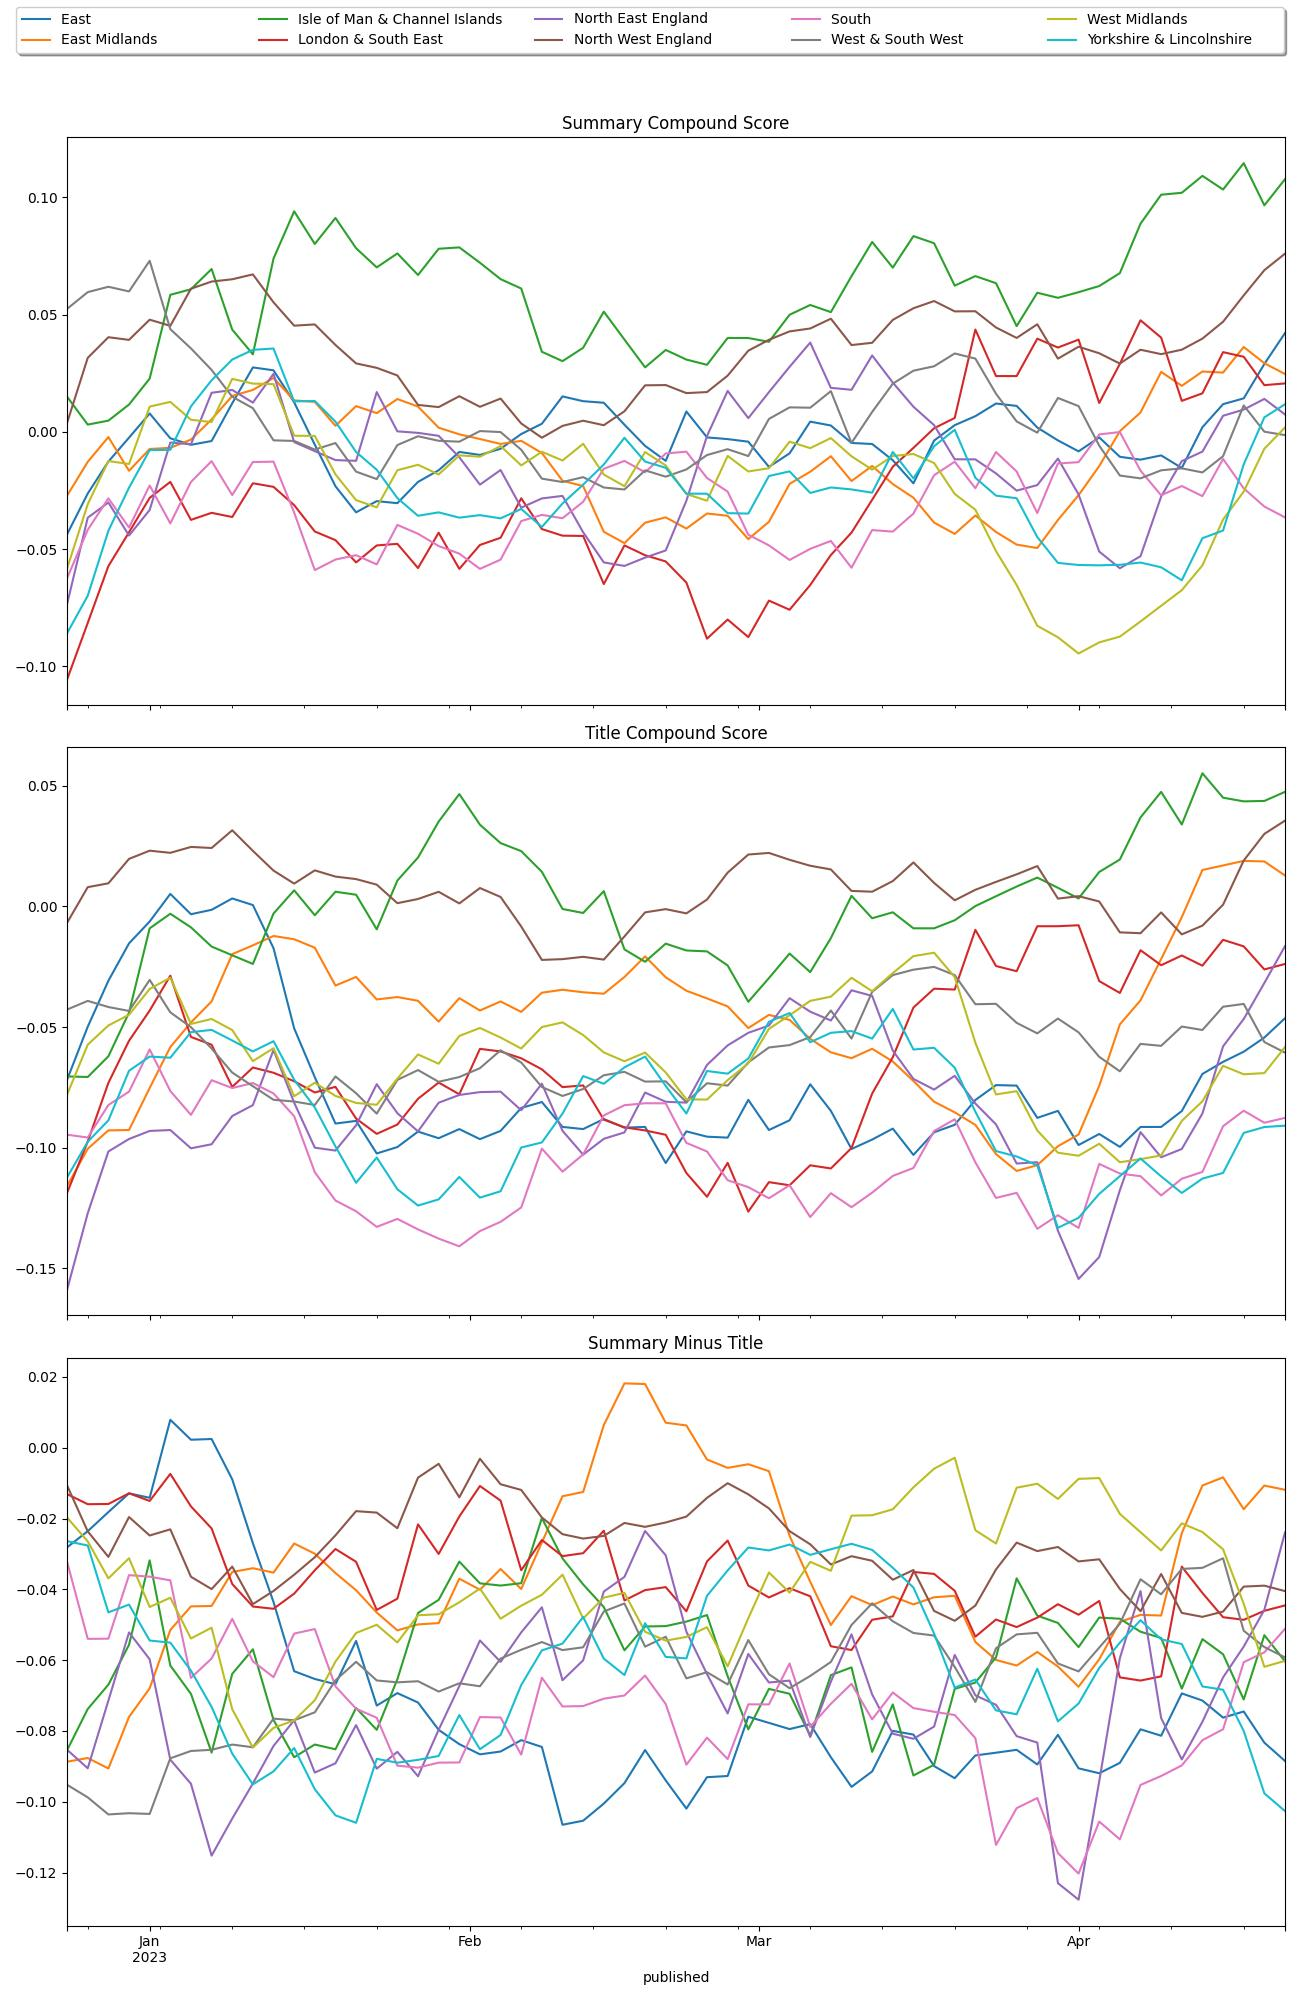
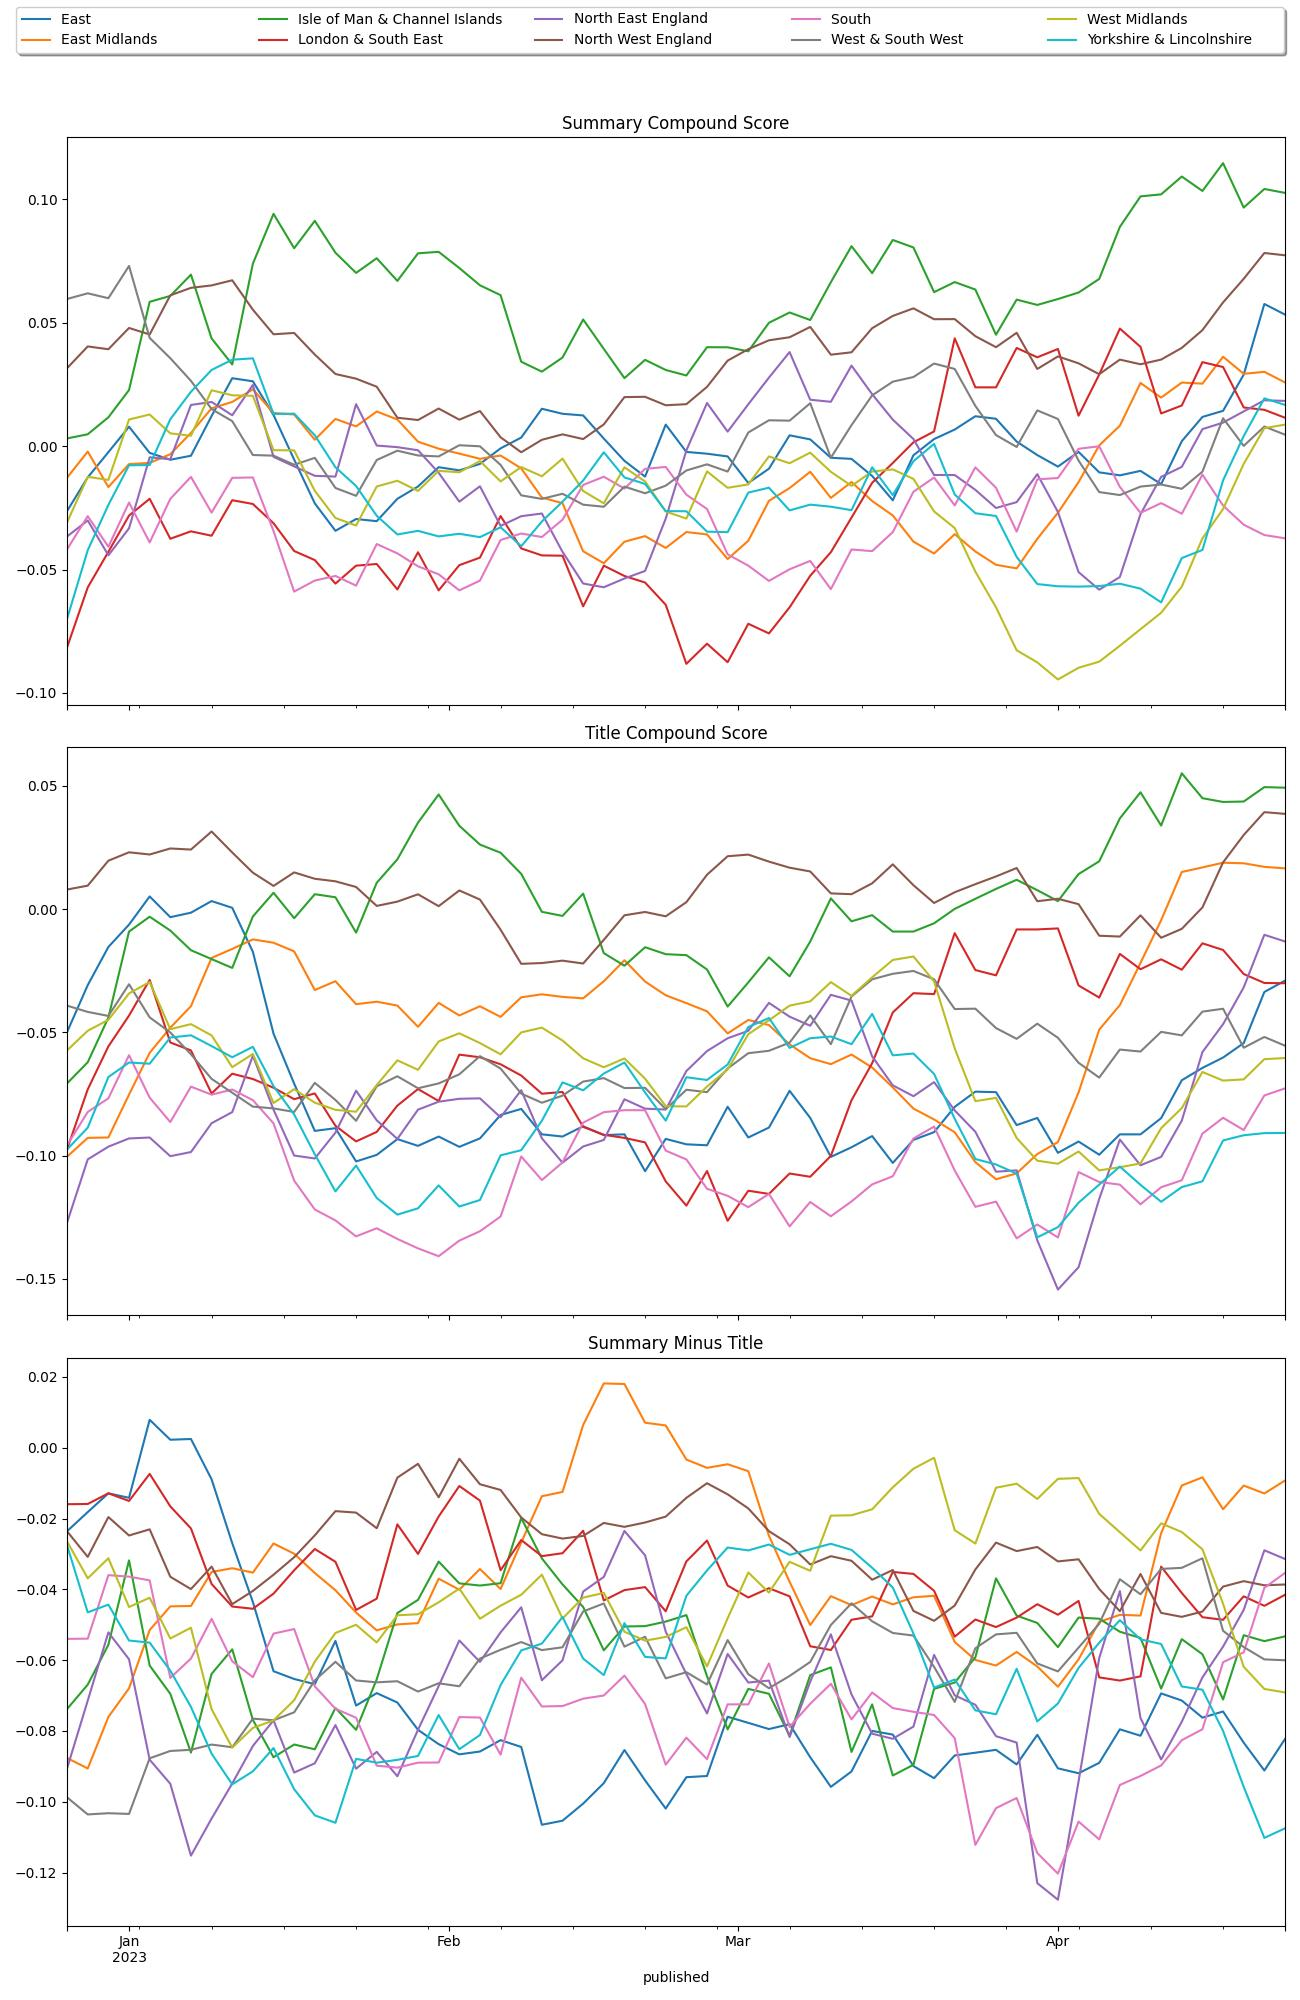
at 2023-04-23 10:41 ran: [Stage: 'complete-basic_report']

diff --git a/reports/complete/latest.md b/reports/complete/latest.md
@@ -1,12 +1,12 @@
-| region                        | published                        | summary                                                                                                                             | title                                              | url                                          |   summary_compound_score |   title_compound_score |   summary_minus_title |
-|:------------------------------|:---------------------------------|:------------------------------------------------------------------------------------------------------------------------------------|:---------------------------------------------------|:---------------------------------------------|-------------------------:|-----------------------:|----------------------:|
-| East                          | 2023-04-22 08:27:22.541000+00:00 | Dr Naushin Hossain enters the race for a second time and wants to create a local support centre.                                    | GP running marathon to start mental health service | /news/articles/c4nze4yg9ezo                  |                   0.5859 |                 0      |               -0.5859 |
-| East Midlands                 | 2023-04-22 08:06:54+00:00        | The boat has been named Lilibet, after the late Queen Elizabeth II.                                                                 | Accessible £38k powerboat launched on river        | /news/uk-england-leicestershire-65326749     |                   0      |                 0.128  |                0.128  |
-| Isle of Man & Channel Islands | 2023-04-22 09:02:59+00:00        | Delays to new inert waste centre "might end up costing us more", Deputy Lindsay De Sausmarez warns.                                 | Clear timeline needed for waste project - deputy   | /news/world-europe-guernsey-65354939         |                  -0.4939 |                -0.0516 |                0.4423 |
-| London & South East           | 2023-04-21 20:52:37+00:00        | All you need to know about promotion, relegation and qualification for Europe in England and Scotland's top men's football leagues. | Ups, downs and the race for Europe                 | /sport/football/64836963                     |                   0.2023 |                 0      |               -0.2023 |
-| North East England            | 2023-04-22 08:24:37.332000+00:00 | Ian Carrick, 79, who has incurable cancer, said staff hospital staff helped in "difficult times".                                   | Cancer and heart attack patient praises hospital   | /news/articles/cv2qgv7n7dgo                  |                  -0.7845 |                -0.6249 |                0.1596 |
-| North West England            | 2023-04-22 08:24:22+00:00        | Visitors can take a trip down memory lane on the red and cream North Western Road Car Company buses.                                | Vintage buses to return to roads for celebration   | /news/uk-england-manchester-65352915         |                   0      |                 0      |                0      |
-| South                         | 2023-04-22 06:25:35+00:00        | The 291 seats on the Voyager were occupied by cuddly toys as it took off from RAF Brize Norton.                                     | Jet with 291 toy giraffe passengers takes flight   | /news/uk-england-oxfordshire-65323153        |                   0      |                 0      |                0      |
-| West & South West             | 2023-04-22 08:53:34+00:00        | Business owners in a city centre say trade is being hit by the lack of visiting boats.                                              | Public meeting called over docks mooring problem   | /news/uk-england-gloucestershire-65338218    |                  -0.3182 |                -0.4019 |               -0.0837 |
-| West Midlands                 | 2023-04-22 08:37:39+00:00        | The Environment Agency warns it might take decades for the diversity of the river to be restored.                                   | Damage caused by convicted farmer to cost £700k    | /news/uk-england-hereford-worcester-65350003 |                   0.25   |                -0.4939 |               -0.7439 |
-| Yorkshire & Lincolnshire      | 2023-04-22 08:36:12+00:00        | Items such as cameras and mobile phones have been replaced with toys and condoms before delivery.                                   | Amazon investigates 'cat food' order swaps         | /news/uk-england-wiltshire-65310418          |                   0      |                 0.1779 |                0.1779 |
+| region                        | published                 | summary                                                                                                                                       | title                                               | url                                          |   summary_compound_score |   title_compound_score |   summary_minus_title |
+|:------------------------------|:--------------------------|:----------------------------------------------------------------------------------------------------------------------------------------------|:----------------------------------------------------|:---------------------------------------------|-------------------------:|-----------------------:|----------------------:|
+| East                          | 2023-04-23 07:00:29+00:00 | Millions of people across the UK will hear a loud alarm on their phones at 15:00 BST.                                                         | Emergency alerts could save your life - Dowden      | /news/uk-65360576                            |                  -0.34   |                 0.1531 |                0.4931 |
+| East Midlands                 | 2023-04-23 09:27:22+00:00 | Police say the dog was shot dead by firearms officers because it posed a risk to safety.                                                      | Man dies at house with 'out of control' dog         | /news/uk-england-derbyshire-65365338         |                  -0.5574 |                 0      |                0.5574 |
+| Isle of Man & Channel Islands | 2023-04-23 08:18:10+00:00 | A new school summer term bus schedule is set to come into force on the Isle of Man from Monday.                                               | Bus timetables to return to pre-pandemic service    | /news/world-europe-isle-of-man-65352619      |                   0      |                 0      |                0      |
+| London & South East           | 2023-04-22 22:12:02+00:00 | Boss Erik ten Hag says he will "not accept a team that is not giving its best" before Manchester United's FA Cup semi-final against Brighton. | Unacceptable for players not to give best - Ten Hag | /sport/football/65347158                     |                  -0.7641 |                -0.7482 |                0.0159 |
+| North East England            | 2023-04-23 08:22:52+00:00 | People will need to show photo ID to prove who they are at local elections in England on 4 May.                                               | Students frustrated at voter photo ID requirement   | /news/uk-england-tyne-65353377               |                   0      |                -0.5267 |               -0.5267 |
+| North West England            | 2023-04-23 08:14:40+00:00 | Following a turbulent period in Liverpool's political history, what can we expect in May's elections?                                         | Eurovision's not Liverpool's only contest this May  | /news/uk-england-merseyside-65334789         |                   0      |                 0      |                0      |
+| South                         | 2023-04-22 18:02:09+00:00 | Gustavo Hamer sets up the first goal for Matt Godden and scores the second as Coventry beat Reading to go fifth in the Championship.          | Play-off hopefuls Coventry beat Reading to go fifth | /sport/football/65283536                     |                   0.4404 |                 0      |               -0.4404 |
+| West & South West             | 2023-04-23 08:26:56+00:00 | Hannah Coles, 21, set up the scheme after her own experience of prom and seeing how expensive it was.                                         | Making prom affordable during cost of living crisis | /news/uk-england-gloucestershire-65361469    |                   0      |                -0.6249 |               -0.6249 |
+| West Midlands                 | 2023-04-23 08:34:05+00:00 | Organisers in Worcestershire raised £715 for Dementia UK during the event on Saturday.                                                        | Dozens of tractors in dementia charity run          | /news/uk-england-hereford-worcester-65365306 |                   0      |                 0.4215 |                0.4215 |
+| Yorkshire & Lincolnshire      | 2023-04-23 08:39:47+00:00 | Carol Higgins was repeatedly abused her father in the 1980s while she grew up in West Yorkshire.                                              | 'I don't want my suffering by my dad to be in vain' | /news/uk-england-leeds-65351770              |                  -0.5106 |                -0.12   |                0.3906 |
